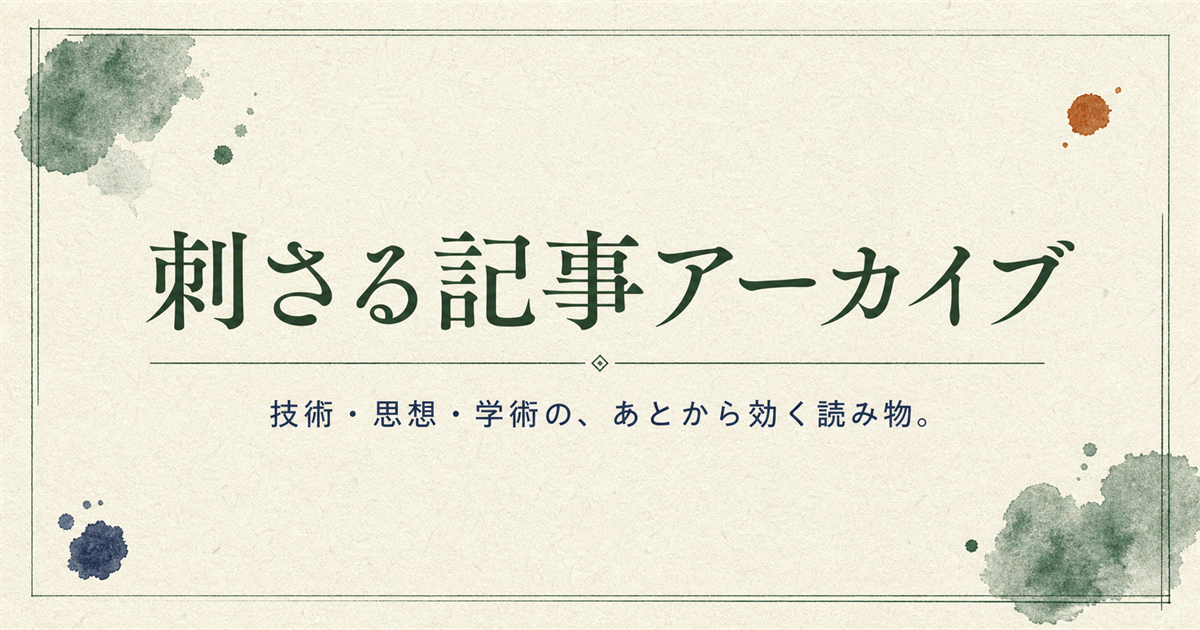
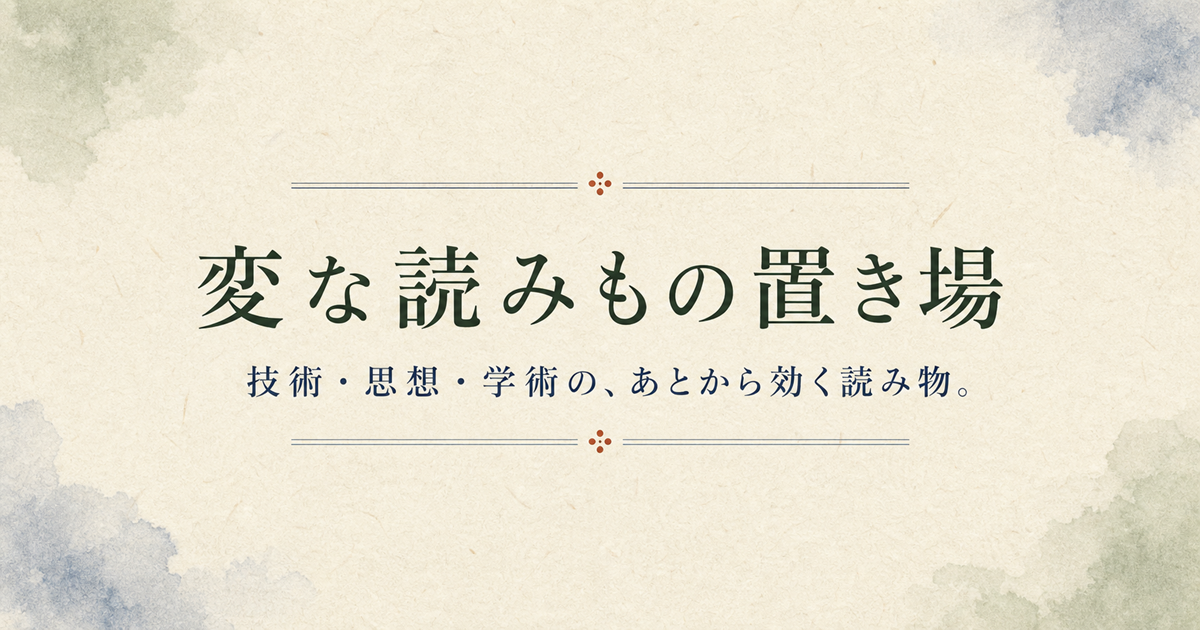
Rename archive and simplify featured panel

diff --git a/articles/limits-of-correctness.html b/articles/limits-of-correctness.html
@@ -1,14 +1,14 @@
 <!doctype html>
 <html lang="ja"><head>
   <meta charset="utf-8"><meta name="viewport" content="width=device-width, initial-scale=1">
-  <title>正しさを証明しても、正しいことは保証できない｜刺さる記事アーカイブ</title>
+  <title>正しさを証明しても、正しいことは保証できない｜変な読みもの置き場</title>
   <meta name="description" content="形式検証はプログラムとモデルの整合を保証する。モデルが現実世界に合っているかは、別の検証を要する。">
   <link rel="canonical" href="https://na-t-to.github.io/strange-article/articles/limits-of-correctness.html">
   <meta property="og:type" content="article"><meta property="og:title" content="正しさを証明しても、正しいことは保証できない"><meta property="og:description" content="形式検証はプログラムとモデルの整合を保証する。モデルが現実世界に合っているかは、別の検証を要する。"><meta property="og:url" content="https://na-t-to.github.io/strange-article/articles/limits-of-correctness.html">
   <meta name="twitter:card" content="summary"><meta name="twitter:title" content="正しさを証明しても、正しいことは保証できない"><meta name="twitter:description" content="形式検証はプログラムとモデルの整合を保証する。モデルが現実世界に合っているかは、別の検証を要する。">
   <link rel="stylesheet" href="../assets/styles.css"><script src="../assets/app.js" defer></script>
 </head><body class="article-page" data-page="article" data-slug="limits-of-correctness">
-  <header class="site-header"><a class="brand" href="../index.html"><span class="brand-mark">刺</span><span><strong>刺さる記事アーカイブ</strong><small>技術・思想・学術の個人誌</small></span></a><p class="issue-date">2026年8月31日　創刊号</p><nav aria-label="主要ナビゲーション"><a href="../index.html">トップ</a><a href="../index.html#today">今日のおすすめ</a><a href="../index.html#archive">記事一覧</a><a href="../index.html#themes">分野</a></nav><button class="quiet-button" type="button" data-favorite="limits-of-correctness" aria-pressed="false">♡ <span data-label>保存</span></button></header>
+  <header class="site-header"><a class="brand" href="../index.html"><span class="brand-mark">変</span><span><strong>変な読みもの置き場</strong><small>技術・思想・学術の個人誌</small></span></a><p class="issue-date">2026年8月31日　創刊号</p><nav aria-label="主要ナビゲーション"><a href="../index.html">トップ</a><a href="../index.html#today">今日のおすすめ</a><a href="../index.html#archive">記事一覧</a><a href="../index.html#themes">分野</a></nav><button class="quiet-button" type="button" data-favorite="limits-of-correctness" aria-pressed="false">♡ <span data-label>保存</span></button></header>
   <main class="article-shell">
     <p class="breadcrumbs"><a href="../index.html">アーカイブ</a>　/　技術哲学</p>
     <header class="article-header"><div class="tags"><span>技術哲学</span><span>仕様設計</span><span>AI信頼性</span></div><h1>正しさを証明しても、正しいことは保証できない</h1><p class="original-title">The Limits of Correctness</p><div class="article-meta-row"><p><strong>Brian Cantwell Smith · 1985</strong><br>公開 2026.08.31　／　推定読了 45分</p><div class="article-score">9.7 <small>/ 10　刺さり度</small></div></div></header>
@@ -88,5 +88,5 @@
       <aside class="article-rail"><section class="rail-card"><span>読む価値</span><p>「正しい」という言葉が何を保証し、何を保証しないかを、モデルと世界の関係から切り分ける。</p><div class="article-actions"><button type="button" data-read="limits-of-correctness" aria-pressed="false">✓ <span data-label>未読</span></button><button type="button" data-favorite="limits-of-correctness" aria-pressed="false">♡ <span data-label>保存</span></button></div></section><a class="source-link" href="https://uobdv.github.io/Design-Verification/Supplementary/The_limits_of_Correctness.pdf" target="_blank" rel="noreferrer">原文を読む ↗</a><section class="rail-card"><span>書誌情報</span><p>Brian Cantwell Smith. “The Limits of Correctness.” ACM SIGCAS Computers and Society 14(1), 1985.</p></section></aside>
     </div>
   </main>
-  <footer class="site-footer"><p><strong>刺さる記事アーカイブ</strong><span>技術・思想・学術の、あとから効く読み物。</span></p><a href="../index.html">アーカイブへ戻る ←</a></footer>
+  <footer class="site-footer"><p><strong>変な読みもの置き場</strong><span>技術・思想・学術の、あとから効く読み物。</span></p><a href="../index.html">アーカイブへ戻る ←</a></footer>
 </body></html>

diff --git a/articles/artifacts-have-politics.html b/articles/artifacts-have-politics.html
@@ -1,14 +1,14 @@
 <!doctype html>
 <html lang="ja"><head>
   <meta charset="utf-8"><meta name="viewport" content="width=device-width, initial-scale=1">
-  <title>技術は中立ではない｜刺さる記事アーカイブ</title>
+  <title>技術は中立ではない｜変な読みもの置き場</title>
   <meta name="description" content="設計や配置は、誰が利用でき、誰へ権限が集まるかを長期にわたって決める。効率だけでは評価できない。">
   <link rel="canonical" href="https://na-t-to.github.io/strange-article/articles/artifacts-have-politics.html">
   <meta property="og:type" content="article"><meta property="og:title" content="技術は中立ではない——設計が先回りして権力を固定する"><meta property="og:description" content="設計や配置は、誰が利用でき、誰へ権限が集まるかを長期にわたって決める。効率だけでは評価できない。"><meta property="og:url" content="https://na-t-to.github.io/strange-article/articles/artifacts-have-politics.html">
   <meta name="twitter:card" content="summary"><meta name="twitter:title" content="技術は中立ではない——設計が先回りして権力を固定する"><meta name="twitter:description" content="設計や配置は、誰が利用でき、誰へ権限が集まるかを長期にわたって決める。効率だけでは評価できない。">
   <link rel="stylesheet" href="../assets/styles.css"><script src="../assets/app.js" defer></script>
 </head><body class="article-page" data-page="article" data-slug="artifacts-have-politics">
-  <header class="site-header"><a class="brand" href="../index.html"><span class="brand-mark">刺</span><span><strong>刺さる記事アーカイブ</strong><small>技術・思想・学術の個人誌</small></span></a><p class="issue-date">2026年8月31日　創刊号</p><nav aria-label="主要ナビゲーション"><a href="../index.html">トップ</a><a href="../index.html#today">今日のおすすめ</a><a href="../index.html#archive">記事一覧</a><a href="../index.html#themes">分野</a></nav><button class="quiet-button" type="button" data-favorite="artifacts-have-politics" aria-pressed="false">♡ <span data-label>保存</span></button></header>
+  <header class="site-header"><a class="brand" href="../index.html"><span class="brand-mark">変</span><span><strong>変な読みもの置き場</strong><small>技術・思想・学術の個人誌</small></span></a><p class="issue-date">2026年8月31日　創刊号</p><nav aria-label="主要ナビゲーション"><a href="../index.html">トップ</a><a href="../index.html#today">今日のおすすめ</a><a href="../index.html#archive">記事一覧</a><a href="../index.html#themes">分野</a></nav><button class="quiet-button" type="button" data-favorite="artifacts-have-politics" aria-pressed="false">♡ <span data-label>保存</span></button></header>
   <main class="article-shell">
     <p class="breadcrumbs"><a href="../index.html">アーカイブ</a>　/　STS</p>
     <header class="article-header"><div class="tags"><span>STS</span><span>技術哲学</span><span>制度設計</span></div><h1>技術は中立ではない——設計が先回りして権力を固定する</h1><p class="original-title">Do Artifacts Have Politics?</p><div class="article-meta-row"><p><strong>Langdon Winner · 1980</strong><br>公開 2026.08.31　／　推定読了 46分</p><div class="article-score">9.2 <small>/ 10　刺さり度</small></div></div></header>
@@ -85,5 +85,5 @@
       <aside class="article-rail"><section class="rail-card"><span>読む価値</span><p>設計が利用者の選択肢と組織の権限をどう変えるか、具体的に検査できる。</p><div class="article-actions"><button type="button" data-read="artifacts-have-politics" aria-pressed="false">✓ <span data-label>未読</span></button><button type="button" data-favorite="artifacts-have-politics" aria-pressed="false">♡ <span data-label>保存</span></button></div></section><a class="source-link" href="https://www.jstor.org/stable/20024652" target="_blank" rel="noreferrer">原文を読む ↗</a><section class="rail-card"><span>書誌情報</span><p>Langdon Winner. “Do Artifacts Have Politics?” Daedalus 109(1), 1980, pp. 121–136.</p></section></aside>
     </div>
   </main>
-  <footer class="site-footer"><p><strong>刺さる記事アーカイブ</strong><span>技術・思想・学術の、あとから効く読み物。</span></p><a href="../index.html">アーカイブへ戻る ←</a></footer>
+  <footer class="site-footer"><p><strong>変な読みもの置き場</strong><span>技術・思想・学術の、あとから効く読み物。</span></p><a href="../index.html">アーカイブへ戻る ←</a></footer>
 </body></html>

diff --git a/articles/ontoclean.html b/articles/ontoclean.html
@@ -1,14 +1,14 @@
 <!doctype html>
 <html lang="ja"><head>
   <meta charset="utf-8"><meta name="viewport" content="width=device-width, initial-scale=1">
-  <title>「学生」は人の種類ではない｜刺さる記事アーカイブ</title>
+  <title>「学生」は人の種類ではない｜変な読みもの置き場</title>
   <meta name="description" content="is-aに見える関係を、本質、役割、部分、材料、実例へ分解する分類設計の検査法。">
   <link rel="canonical" href="https://na-t-to.github.io/strange-article/articles/ontoclean.html">
   <meta property="og:type" content="article"><meta property="og:title" content="「学生」は人の種類ではない——分類を壊す本質と役割の混同"><meta property="og:description" content="is-aに見える関係を、本質、役割、部分、材料、実例へ分解する分類設計の検査法。"><meta property="og:url" content="https://na-t-to.github.io/strange-article/articles/ontoclean.html">
   <meta name="twitter:card" content="summary"><meta name="twitter:title" content="「学生」は人の種類ではない——分類を壊す本質と役割の混同"><meta name="twitter:description" content="is-aに見える関係を、本質、役割、部分、材料、実例へ分解する分類設計の検査法。">
   <link rel="stylesheet" href="../assets/styles.css"><script src="../assets/app.js" defer></script>
 </head><body class="article-page" data-page="article" data-slug="ontoclean">
-  <header class="site-header"><a class="brand" href="../index.html"><span class="brand-mark">刺</span><span><strong>刺さる記事アーカイブ</strong><small>技術・思想・学術の個人誌</small></span></a><p class="issue-date">2026年8月31日　創刊号</p><nav aria-label="主要ナビゲーション"><a href="../index.html">トップ</a><a href="../index.html#today">今日のおすすめ</a><a href="../index.html#archive">記事一覧</a><a href="../index.html#themes">分野</a></nav><button class="quiet-button" type="button" data-favorite="ontoclean" aria-pressed="false">♡ <span data-label>保存</span></button></header>
+  <header class="site-header"><a class="brand" href="../index.html"><span class="brand-mark">変</span><span><strong>変な読みもの置き場</strong><small>技術・思想・学術の個人誌</small></span></a><p class="issue-date">2026年8月31日　創刊号</p><nav aria-label="主要ナビゲーション"><a href="../index.html">トップ</a><a href="../index.html#today">今日のおすすめ</a><a href="../index.html#archive">記事一覧</a><a href="../index.html#themes">分野</a></nav><button class="quiet-button" type="button" data-favorite="ontoclean" aria-pressed="false">♡ <span data-label>保存</span></button></header>
   <main class="article-shell">
     <p class="breadcrumbs"><a href="../index.html">アーカイブ</a>　/　概念モデリング</p>
     <header class="article-header"><div class="tags"><span>オントロジー</span><span>概念モデリング</span><span>分類論</span></div><h1>「学生」は人の種類ではない——分類を壊す本質と役割の混同</h1><p class="original-title">Evaluating Ontological Decisions with OntoClean</p><div class="article-meta-row"><p><strong>Nicola Guarino &amp; Christopher Welty · 2002</strong><br>公開 2026.08.31　／　推定読了 47分</p><div class="article-score">9.5 <small>/ 10　刺さり度</small></div></div></header>
@@ -93,5 +93,5 @@
       <aside class="article-rail"><section class="rail-card"><span>読む価値</span><p>分類の違和感を、哲学的な問いから検査可能なルールへ変える。実務の分類表をすぐに見直せる。</p><div class="article-actions"><button type="button" data-read="ontoclean" aria-pressed="false">✓ <span data-label>未読</span></button><button type="button" data-favorite="ontoclean" aria-pressed="false">♡ <span data-label>保存</span></button></div></section><a class="source-link" href="https://www.loa.istc.cnr.it/old/Papers/CACM2002.pdf" target="_blank" rel="noreferrer">原文を読む ↗</a><section class="rail-card"><span>書誌情報</span><p>Nicola Guarino &amp; Christopher Welty. “Evaluating Ontological Decisions with OntoClean.” CACM 45(2), 2002.</p></section></aside>
     </div>
   </main>
-  <footer class="site-footer"><p><strong>刺さる記事アーカイブ</strong><span>技術・思想・学術の、あとから効く読み物。</span></p><a href="../index.html">アーカイブへ戻る ←</a></footer>
+  <footer class="site-footer"><p><strong>変な読みもの置き場</strong><span>技術・思想・学術の、あとから効く読み物。</span></p><a href="../index.html">アーカイブへ戻る ←</a></footer>
 </body></html>

diff --git a/articles/checklist.html b/articles/checklist.html
@@ -1,14 +1,14 @@
 <!doctype html>
 <html lang="ja"><head>
   <meta charset="utf-8"><meta name="viewport" content="width=device-width, initial-scale=1">
-  <title>平均点を捨てて、AIの「振る舞い」をテストする｜刺さる記事アーカイブ</title>
+  <title>平均点を捨てて、AIの「振る舞い」をテストする｜変な読みもの置き場</title>
   <meta name="description" content="能力×テスト型の行列を使い、AIがどの能力・条件で失敗するかを特定する。">
   <link rel="canonical" href="https://na-t-to.github.io/strange-article/articles/checklist.html">
   <meta property="og:type" content="article"><meta property="og:title" content="平均点を捨てて、AIの「振る舞い」をテストする"><meta property="og:description" content="能力×テスト型の行列を使い、AIがどの能力・条件で失敗するかを特定する。"><meta property="og:url" content="https://na-t-to.github.io/strange-article/articles/checklist.html">
   <meta name="twitter:card" content="summary"><meta name="twitter:title" content="平均点を捨てて、AIの「振る舞い」をテストする"><meta name="twitter:description" content="能力×テスト型の行列を使い、AIがどの能力・条件で失敗するかを特定する。">
   <link rel="stylesheet" href="../assets/styles.css"><script src="../assets/app.js" defer></script>
 </head><body class="article-page" data-page="article" data-slug="checklist">
-  <header class="site-header"><a class="brand" href="../index.html"><span class="brand-mark">刺</span><span><strong>刺さる記事アーカイブ</strong><small>技術・思想・学術の個人誌</small></span></a><p class="issue-date">2026年8月31日　創刊号</p><nav aria-label="主要ナビゲーション"><a href="../index.html">トップ</a><a href="../index.html#today">今日のおすすめ</a><a href="../index.html#archive">記事一覧</a><a href="../index.html#themes">分野</a></nav><button class="quiet-button" type="button" data-favorite="checklist" aria-pressed="false">♡ <span data-label>保存</span></button></header>
+  <header class="site-header"><a class="brand" href="../index.html"><span class="brand-mark">変</span><span><strong>変な読みもの置き場</strong><small>技術・思想・学術の個人誌</small></span></a><p class="issue-date">2026年8月31日　創刊号</p><nav aria-label="主要ナビゲーション"><a href="../index.html">トップ</a><a href="../index.html#today">今日のおすすめ</a><a href="../index.html#archive">記事一覧</a><a href="../index.html#themes">分野</a></nav><button class="quiet-button" type="button" data-favorite="checklist" aria-pressed="false">♡ <span data-label>保存</span></button></header>
   <main class="article-shell">
     <p class="breadcrumbs"><a href="../index.html">アーカイブ</a>　/　AI評価</p>
     <header class="article-header"><div class="tags"><span>AI評価</span><span>LLM信頼性</span><span>テスト設計</span></div><h1>平均点を捨てて、AIの「振る舞い」をテストする</h1><p class="original-title">Beyond Accuracy: Behavioral Testing of NLP Models with CheckList</p><div class="article-meta-row"><p><strong>Marco Tulio Ribeiro, Tongshuang Wu, Carlos Guestrin, Sameer Singh · 2020</strong><br>公開 2026.08.31　／　推定読了 47分</p><div class="article-score">9.4 <small>/ 10　刺さり度</small></div></div></header>
@@ -89,5 +89,5 @@
       <aside class="article-rail"><section class="rail-card"><span>読む価値</span><p>一つの得点を、能力ごとの失敗条件へ分解する。LLM評価の設計会議でそのまま使える。</p><div class="article-actions"><button type="button" data-read="checklist" aria-pressed="false">✓ <span data-label>未読</span></button><button type="button" data-favorite="checklist" aria-pressed="false">♡ <span data-label>保存</span></button></div></section><a class="source-link" href="https://aclanthology.org/2020.acl-main.442/" target="_blank" rel="noreferrer">原文を読む ↗</a><section class="rail-card"><span>書誌情報</span><p>Ribeiro, Wu, Guestrin &amp; Singh. “Beyond Accuracy.” ACL 2020, pp. 4902–4912.</p></section></aside>
     </div>
   </main>
-  <footer class="site-footer"><p><strong>刺さる記事アーカイブ</strong><span>技術・思想・学術の、あとから効く読み物。</span></p><a href="../index.html">アーカイブへ戻る ←</a></footer>
+  <footer class="site-footer"><p><strong>変な読みもの置き場</strong><span>技術・思想・学術の、あとから効く読み物。</span></p><a href="../index.html">アーカイブへ戻る ←</a></footer>
 </body></html>

diff --git a/articles/world-and-machine.html b/articles/world-and-machine.html
@@ -1,14 +1,14 @@
 <!doctype html>
 <html lang="ja"><head>
   <meta charset="utf-8"><meta name="viewport" content="width=device-width, initial-scale=1">
-  <title>要求は「機械の中」ではなく「世界の側」にある｜刺さる記事アーカイブ</title>
+  <title>要求は「機械の中」ではなく「世界の側」にある｜変な読みもの置き場</title>
   <meta name="description" content="要求とは、機械の導入後に現実世界で成立してほしい状態である。画面や機能は、その状態を実現する手段にあたる。">
   <link rel="canonical" href="https://na-t-to.github.io/strange-article/articles/world-and-machine.html">
   <meta property="og:type" content="article"><meta property="og:title" content="要求は「機械の中」ではなく「世界の側」にある"><meta property="og:description" content="要求とは、機械の導入後に現実世界で成立してほしい状態である。画面や機能は、その状態を実現する手段にあたる。"><meta property="og:url" content="https://na-t-to.github.io/strange-article/articles/world-and-machine.html">
   <meta name="twitter:card" content="summary"><meta name="twitter:title" content="要求は「機械の中」ではなく「世界の側」にある"><meta name="twitter:description" content="要求とは、機械の導入後に現実世界で成立してほしい状態である。画面や機能は、その状態を実現する手段にあたる。">
   <link rel="stylesheet" href="../assets/styles.css"><script src="../assets/app.js" defer></script>
 </head><body class="article-page" data-page="article" data-slug="world-and-machine">
-  <header class="site-header"><a class="brand" href="../index.html"><span class="brand-mark">刺</span><span><strong>刺さる記事アーカイブ</strong><small>技術・思想・学術の個人誌</small></span></a><p class="issue-date">2026年8月31日　創刊号</p><nav aria-label="主要ナビゲーション"><a href="../index.html">トップ</a><a href="../index.html#today">今日のおすすめ</a><a href="../index.html#archive">記事一覧</a><a href="../index.html#themes">分野</a></nav><button class="quiet-button" type="button" data-favorite="world-and-machine" aria-pressed="false">♡ <span data-label>保存</span></button></header>
+  <header class="site-header"><a class="brand" href="../index.html"><span class="brand-mark">変</span><span><strong>変な読みもの置き場</strong><small>技術・思想・学術の個人誌</small></span></a><p class="issue-date">2026年8月31日　創刊号</p><nav aria-label="主要ナビゲーション"><a href="../index.html">トップ</a><a href="../index.html#today">今日のおすすめ</a><a href="../index.html#archive">記事一覧</a><a href="../index.html#themes">分野</a></nav><button class="quiet-button" type="button" data-favorite="world-and-machine" aria-pressed="false">♡ <span data-label>保存</span></button></header>
   <main class="article-shell">
     <p class="breadcrumbs"><a href="../index.html">アーカイブ</a>　/　要求工学</p>
     <header class="article-header">
@@ -99,5 +99,5 @@
       <aside class="article-rail"><section class="rail-card"><span>読む価値</span><p>要求、仕様、実装を「世界／機械」という一つの境界で整理できる。古典だが、AIエージェント設計にも直接効く。</p><div class="article-actions"><button type="button" data-read="world-and-machine" aria-pressed="false">✓ <span data-label>未読</span></button><button type="button" data-favorite="world-and-machine" aria-pressed="false">♡ <span data-label>保存</span></button></div></section><a class="source-link" href="https://www.researchgate.net/publication/234783472_World_and_the_machine" target="_blank" rel="noreferrer">原文を読む ↗</a><section class="rail-card"><span>書誌情報</span><p>Michael Jackson. “The World and the Machine.” ICSE, 1995, pp. 283–292.</p></section></aside>
     </div>
   </main>
-  <footer class="site-footer"><p><strong>刺さる記事アーカイブ</strong><span>技術・思想・学術の、あとから効く読み物。</span></p><a href="../index.html">アーカイブへ戻る ←</a></footer>
+  <footer class="site-footer"><p><strong>変な読みもの置き場</strong><span>技術・思想・学術の、あとから効く読み物。</span></p><a href="../index.html">アーカイブへ戻る ←</a></footer>
 </body></html>

diff --git a/index.html b/index.html
@@ -3,16 +3,16 @@
   <head>
     <meta charset="utf-8">
     <meta name="viewport" content="width=device-width, initial-scale=1">
-    <title>刺さる記事アーカイブ</title>
+    <title>変な読みもの置き場</title>
     <meta name="description" content="技術・思想・学術から、あとで効いてくる文章だけを選ぶ個人雑誌。">
     <link rel="canonical" href="https://na-t-to.github.io/strange-article/">
     <meta property="og:type" content="website">
-    <meta property="og:title" content="刺さる記事アーカイブ">
+    <meta property="og:title" content="変な読みもの置き場">
     <meta property="og:description" content="技術・思想・学術の、あとから効く読み物。">
     <meta property="og:url" content="https://na-t-to.github.io/strange-article/">
     <meta property="og:image" content="https://na-t-to.github.io/strange-article/assets/og.png">
     <meta name="twitter:card" content="summary_large_image">
-    <meta name="twitter:title" content="刺さる記事アーカイブ">
+    <meta name="twitter:title" content="変な読みもの置き場">
     <meta name="twitter:description" content="技術・思想・学術の、あとから効く読み物。">
     <meta name="twitter:image" content="https://na-t-to.github.io/strange-article/assets/og.png">
     <link rel="stylesheet" href="assets/styles.css">
@@ -20,9 +20,9 @@
   </head>
   <body data-page="home">
     <header class="site-header">
-      <a class="brand" href="index.html" aria-label="刺さる記事アーカイブ トップ">
-        <span class="brand-mark">刺</span>
-        <span><strong>刺さる記事アーカイブ</strong><small>技術・思想・学術の個人誌</small></span>
+      <a class="brand" href="index.html" aria-label="変な読みもの置き場 トップ">
+        <span class="brand-mark">変</span>
+        <span><strong>変な読みもの置き場</strong><small>技術・思想・学術の個人誌</small></span>
       </a>
       <p class="issue-date" data-issue-date>号情報を読み込み中…</p>
       <nav aria-label="主要ナビゲーション"><a href="index.html">トップ</a><a href="#today">今日のおすすめ</a><a href="#archive">記事一覧</a><a href="#themes">分野</a></nav>
@@ -64,6 +64,6 @@
       </aside>
     </main>
 
-    <footer class="site-footer"><p><strong>刺さる記事アーカイブ</strong><span>技術・思想・学術の、あとから効く読み物。</span></p><a href="#today">ページ上部へ ↑</a></footer>
+    <footer class="site-footer"><p><strong>変な読みもの置き場</strong><span>技術・思想・学術の、あとから効く読み物。</span></p><a href="#today">ページ上部へ ↑</a></footer>
   </body>
 </html>

diff --git a/assets/styles.css b/assets/styles.css
@@ -140,7 +140,7 @@ nav a:hover, nav a:first-child { background: rgba(248, 247, 240, .12); color: #f
 .featured-visual::after { width: 210px; height: 180px; left: -100px; bottom: -110px; }
 .visual-top { z-index: 1; display: flex; justify-content: space-between; align-items: start; color: var(--mist); font-size: 8px; letter-spacing: .13em; }
 .visual-top b { width: 42px; height: 42px; display: grid; place-items: center; border: 1px solid var(--line-strong); color: var(--deep-moss); font: 17px var(--serif); }
-.featured-visual p { z-index: 1; margin: 0; padding-bottom: 11px; border-bottom: 2px solid var(--moss); color: var(--mist-strong); font: 12px/1.9 var(--serif); }
+.featured-issue-mark { z-index: 1; width: max-content; padding: 5px 0 4px; border-top: 1px solid var(--moss); border-bottom: 1px solid var(--moss); color: var(--mist-strong); font: 700 10px var(--serif); letter-spacing: .16em; }
 .featured-copy { min-width: 0; padding: 20px 22px; display: flex; flex-direction: column; }
 .featured-tools { display: flex; align-items: flex-start; justify-content: space-between; gap: 12px; }
 .tags { display: flex; gap: 5px; flex-wrap: wrap; }
@@ -285,7 +285,6 @@ nav a:hover, nav a:first-child { background: rgba(248, 247, 240, .12); color: #f
   .section-heading time { display: none; }
   .featured-card { grid-template-columns: 1fr; }
   .featured-visual { min-height: 138px; border-right: 0; border-bottom: 1px solid var(--line); }
-  .featured-visual p { max-width: 250px; }
   .featured-copy { padding: 17px; }
   .featured-tools { align-items: flex-start; flex-direction: column; }
   .featured-copy h2 { font-size: 24px; }

diff --git a/assets/app.js b/assets/app.js
@@ -81,11 +81,10 @@
       container.innerHTML = '<div class="empty-state"><strong>今日のおすすめは準備中です</strong><p>featured: true の記事を1本指定してください。</p></div>';
       return;
     }
-    const lead = escapeHtml(article.featuredLead || article.excerpt).replaceAll('\n', '<br>');
     container.innerHTML = `
-      <div class="featured-visual">
+      <div class="featured-visual" aria-hidden="true">
         <div class="visual-top"><span>${escapeHtml(article.featuredKicker || article.originalTitle)}</span><b>01</b></div>
-        <p>${lead}</p>
+        <span class="featured-issue-mark">本日の一篇</span>
       </div>
       <div class="featured-copy">
         <div class="featured-tools">

diff --git a/EDITORIAL.md b/EDITORIAL.md
@@ -23,7 +23,7 @@
 トップページの「今日まず読むならこれ」は、`data/articles.json` で `featured: true` になっている記事から生成する。`index.html` に記事名や紹介文を直接書かない。
 
 - `featured: true` は常に1本だけにする。ほかの記事は `false` にする。
-- おすすめ記事には、短い分類表示として `featuredKicker`、大きな導入文として `featuredLead` を付ける。改行したい位置は `featuredLead` 内の改行で指定する。
+- おすすめ記事には、左上の短い分類表示として `featuredKicker` を付ける。大きなキャッチコピーは置かず、記事名と紹介文をそのまま見せる。
 - 発行日、号数、号名、編集後記は `data/daily.json` に記録する。日次更新では `date`、`issueNumber`、`issueLabel`、`editorNote.title`、`editorNote.body` を更新する。
 - 新しい号を公開するときは `data/articles.json` と `data/daily.json` を更新すればよく、トップページのHTMLを編集する必要はない。
 
